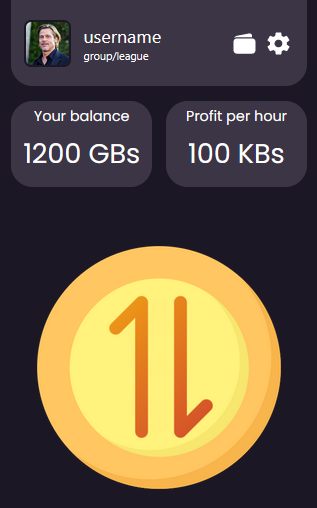
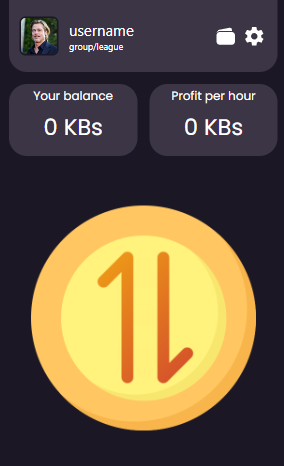
Pagination added, balance change added

diff --git a/src/components/buttons/CoinButton.tsx b/src/components/buttons/CoinButton.tsx
@@ -1,12 +1,14 @@
 // import {motion} from "framer-motion";
 import {motion} from "framer-motion";
 import {FC, useEffect, useState} from "react";
+import userBalance from "../stores/userBalance.ts";
+import {observer} from "mobx-react-lite";
 
 interface CoinButtonProps {
     profitphour: number
 }
 
-const CoinButton: FC<CoinButtonProps> = () => {
+const CoinButton: FC<CoinButtonProps> = observer(() => {
 
     const Imgs = {
         coinImg: new URL("/imgs/coin.png", import.meta.url).href,
@@ -19,7 +21,7 @@ const CoinButton: FC<CoinButtonProps> = () => {
     let startTouchX: number = 0;
     let startTouchY: number = 0;
 
-    const handleClick = () => {
+    const handleClickAnimation = () => {
         const clickbutton = document.getElementById("coinbutton");
 
         if (clickbutton) {
@@ -33,6 +35,20 @@ const CoinButton: FC<CoinButtonProps> = () => {
             })
         }
     }
+
+    const handleBalanceIncrease = () => {
+        userBalance.tapIncrement();
+    }
+
+    // const handlePPhIncrease = () => {
+    //     userBalance.tapIncrementPPH();
+    // }
+
+    const handleClick = () => {
+        handleClickAnimation();
+        handleBalanceIncrease();
+    }
+
     useEffect(() => {
         if (isVisible) {
             const timer = setTimeout(() => {
@@ -61,30 +77,30 @@ const CoinButton: FC<CoinButtonProps> = () => {
                         <motion.div
                             initial={{
                                 opacity: 0,
-                                x: `${positionX*0.05}px`,
-                                y: `${positionY*0.05}px`
+                                x: `${positionX * 0.05}px`,
+                                y: `${positionY * 0.05}px`
                             }}
                             animate={{
                                 opacity: 3,
-                                x: `${positionX*0.05}px`,
-                                y: `${positionY*0.05-200}px`
+                                x: `${positionX * 0.05}px`,
+                                y: `${positionY * 0.05 - 200}px`
                             }}
                             exit={{
                                 opacity: 0,
-                                x: `${positionX*0.05}px`,
-                                y: `${positionY*0.05}px`
+                                x: `${positionX * 0.05}px`,
+                                y: `${positionY * 0.05}px`
                             }}
                             transition={{duration: 0.1}}
                             className="profit-per-tap bg-transparent text-white text-4xl font-bold font-poppinsFont select-none"
-                            style={{top: `${positionY * 0.5}px`, left: `${positionX*0.5}px`, position: 'absolute'}}
+                            style={{top: `${positionY * 0.5}px`, left: `${positionX * 0.5}px`, position: 'absolute'}}
                         >
-                            +7
+                            +1
                         </motion.div>
                     )}
                 </div>
             </div>
         </div>
     );
-};
+});
 
 export default CoinButton;

diff --git a/src/components/pages/WelcomingPage2.tsx b/src/components/pages/WelcomingPage2.tsx
@@ -1,5 +1,6 @@
 import { motion } from "framer-motion";
 import {Link, Outlet} from "react-router-dom";
+import PaginationGuideButton from "../buttons/PaginationGuideButton.tsx";
 
 const WelcomingPage2 = () => {
     const app2 = new URL("/imgs/ourApp2.png", import.meta.url).href;
@@ -8,11 +9,12 @@ const WelcomingPage2 = () => {
             className={"WelcomingPage2 bg-black min-h-screen select-none"}
             initial={{opacity: 0}}
             animate={{opacity: 3}}
-            exit={{opacity:0}}
-            transition={{duration:0.2}}>
-            <div className={"font-poppinsFont font-semibold text-center pt-16 select-none px-10"}>
+            exit={{opacity: 0}}
+            transition={{duration: 0.2}}>
+            <div className={"font-poppinsFont font-semibold text-center pt-12 select-none px-10"}>
                 <h1 className={"text-white text-xl mob3:text-2xl"}>You can perform tasks and earn easy coins</h1>
-                <h1 className={"text-white text-lg mob3:text-xl mt-4"}>Easier tasks bring you less coins, harder - more coins</h1>
+                <h1 className={"text-white text-lg mob3:text-xl mt-4"}>Easier tasks bring you less coins, harder - more
+                    coins</h1>
             </div>
             <div className={"flex justify-center mt-8"}>
                 <img src={app2} alt={"Screen2"}
@@ -20,10 +22,15 @@ const WelcomingPage2 = () => {
             </div>
             <div className={"flex justify-end"}>
                 <Link to={"/guide3"}
-                    className={"w-24 h-12 mob3:w-32 mob3:h-20 mob3:text-2xl mr-5 mt-8 mob3:mt-14 mob3:pt-6 mob3:px-6 px-5 py-2.5 rounded-lg text-white font-semibold place-items-center text-lg font-poppinsFont bg-purple-700 focus:bg-purple-900 focus:ring-4 focus:ring-purple-300 mb-2 dark:bg-purple-600 dark:hover:bg-purple-700 dark:focus:ring-purple-900"}>
+                      className={"w-24 h-12 mob3:w-32 mob3:h-20 mob3:text-2xl mr-5 mt-8 mob3:mt-14 mob3:pt-6 mob3:px-6 px-5 py-2.5 rounded-lg text-white font-semibold place-items-center text-lg font-poppinsFont bg-purple-700 focus:bg-purple-900 focus:ring-4 focus:ring-purple-300 mb-2 dark:bg-purple-600 dark:hover:bg-purple-700 dark:focus:ring-purple-900"}>
                     Got it!
                 </Link>
                 <Outlet/>
+            </div>
+            <div className={"flex gap-2 justify-center mt-5"}>
+                <PaginationGuideButton bgCurrent={false}/>
+                <PaginationGuideButton bgCurrent={true}/>
+                <PaginationGuideButton bgCurrent={false}/>
             </div>
         </motion.div>
     );

diff --git a/src/components/pages/WelcomingPage3.tsx b/src/components/pages/WelcomingPage3.tsx
@@ -1,5 +1,6 @@
 import { motion } from "framer-motion";
 import {Link, Outlet} from "react-router-dom";
+import PaginationGuideButton from "../buttons/PaginationGuideButton.tsx";
 
 const WelcomingPage3 = () => {
     const app3 = new URL("/imgs/ourApp3.png", import.meta.url).href;
@@ -8,9 +9,9 @@ const WelcomingPage3 = () => {
             className={"WelcomingPage2 bg-black min-h-screen select-none"}
             initial={{opacity: 0}}
             animate={{opacity: 3}}
-            exit={{opacity:0}}
-            transition={{duration:0.2}}>
-            <div className={"font-poppinsFont font-semibold text-center pt-16 select-none px-7"}>
+            exit={{opacity: 0}}
+            transition={{duration: 0.2}}>
+            <div className={"font-poppinsFont font-semibold text-center pt-12 select-none px-7"}>
                 <h1 className={"text-white text-xl mob3:text-3xl"}>Also, you can earn from inviting your friends!</h1>
                 <h1 className={"text-gray-400 text-sm mob3:text-lg mt-5"}>Each friend can bring you up to 2000TR</h1>
             </div>
@@ -20,10 +21,15 @@ const WelcomingPage3 = () => {
             </div>
             <div className={"flex justify-end"}>
                 <Link to={"/main"}
-                    className={"w-30 h-12 text-base mob3:w-32 mob3:h-20 mob2:text-xl mr-5 mt-8 mob3:mt-15 text-center rounded-lg text-white font-semibold place-items-center font-poppinsFont bg-purple-700 focus:bg-purple-900 focus:ring-4 focus:ring-purple-300 px-5 py-2.5 mb-2 dark:bg-purple-600 dark:hover:bg-purple-700 dark:focus:ring-purple-900"}>
+                      className={"w-30 h-12 text-base mob3:w-32 mob3:h-20 mob2:text-xl mr-5 mt-8 mob3:mt-15 text-center rounded-lg text-white font-semibold place-items-center font-poppinsFont bg-purple-700 focus:bg-purple-900 focus:ring-4 focus:ring-purple-300 px-5 py-2.5 mb-2 dark:bg-purple-600 dark:hover:bg-purple-700 dark:focus:ring-purple-900"}>
                     Let's dive!
                 </Link>
                 <Outlet/>
+            </div>
+            <div className={"flex gap-2 justify-center mt-5"}>
+                <PaginationGuideButton bgCurrent={false}/>
+                <PaginationGuideButton bgCurrent={false}/>
+                <PaginationGuideButton bgCurrent={true}/>
             </div>
         </motion.div>
     );

diff --git a/src/components/pages/WelcomingPage1.tsx b/src/components/pages/WelcomingPage1.tsx
@@ -1,20 +1,24 @@
-import { motion } from "framer-motion";
+import {motion} from "framer-motion";
 import {Link, Outlet} from "react-router-dom";
+import PaginationGuideButton from "../buttons/PaginationGuideButton.tsx";
 
 const WelcomingPage1 = () => {
     const app1 = new URL("/imgs/ourApp.png", import.meta.url).href;
+
     return (
         <motion.div
             className={"WelcomingPage1 bg-black min-h-screen"}
             initial={{opacity: 0}}
             animate={{opacity: 3}}
-            exit={{opacity:0}}
-            transition={{duration:0.2}}>
-            <div className={"font-poppinsFont font-semibold text-center pt-16 select-none px-10"}>
+            exit={{opacity: 0}}
+            transition={{duration: 0.2}}>
+            <div className={"font-poppinsFont font-semibold text-center pt-12 select-none px-10"}>
                 <h1 className={"text-white text-2xl mob3:text-3xl sm:text-4xl"}>Welcome to our app!</h1>
                 <h1 className={"text-white text-xl mob3:text-2xl sm:text-3xl mt-4"}>Everything is easy:</h1>
-                <h1 className={"text-white text-lg mob3:text-2xl sm:text-3xl font-bold"}>Tap the button - earn a coin</h1>
-                <h1 className={"text-gray-400 text-xs mob3:text-base sm:text-xl mt-5"}>Additional things like boosts will be added
+                <h1 className={"text-white text-lg mob3:text-2xl sm:text-3xl font-bold"}>Tap the button - earn a
+                    coin</h1>
+                <h1 className={"text-gray-400 text-xs mob3:text-base sm:text-xl mt-5"}>Additional things like boosts
+                    will be added
                     soon...</h1>
             </div>
             <div className={"flex justify-center mt-8"}>
@@ -27,6 +31,11 @@ const WelcomingPage1 = () => {
                     Got it!
                 </Link>
                 <Outlet/>
+            </div>
+            <div className={"flex gap-2 justify-center mt-5"}>
+                <PaginationGuideButton bgCurrent={true}/>
+                <PaginationGuideButton bgCurrent={false}/>
+                <PaginationGuideButton bgCurrent={false}/>
             </div>
         </motion.div>
     );

diff --git a/src/components/cards/StatBoard.tsx b/src/components/cards/StatBoard.tsx
@@ -1,23 +1,25 @@
 import {FC} from "react";
 import {IStats} from "../types/types";
 import BalanceCard from "./BalanceCard.tsx";
+import userBalance from "../stores/userBalance.ts";
+import {observer} from "mobx-react-lite";
 
 interface MainPageStatCardProps {
     stats: IStats;
 }
 
-const StatBoard: FC<MainPageStatCardProps> = ({stats}) => {
+const StatBoard: FC<MainPageStatCardProps> = observer(() => {
     return (
         <div className="flex columns-2 w-full px-4 justify-evenly mt-4">
-            <BalanceCard title="Your balance" amount={stats.balance} currency="GBs"/>
+            <BalanceCard title="Your balance" amount={userBalance.balance} currency="KBs"/>
             <div className="ml-4"/>
             <BalanceCard
                 title="Profit per hour"
-                amount={stats.profitphour}
+                amount={userBalance.profitperhour}
                 currency="KBs"
             />
         </div>
     );
-};
+});
 
 export default StatBoard;

diff --git a/src/components/pages/MainPage.tsx b/src/components/pages/MainPage.tsx
@@ -10,14 +10,14 @@ const MainPage = () => {
     return (
         <PageBodyWrapper>
             <motion.div
-                className={"MainPage bg-main min-h-screen select-none pb-24"}
+                className={"MainPage bg-main min-h-dvh select-none overflow-hidden pb-10"}
                 initial={{opacity: 0}}
                 animate={{opacity: 3}}
                 exit={{opacity: 0}}
                 transition={{duration: 0.2}}
             >
 
-                <div className={"pb-24"}>
+                <div className={"min-h-screen"}>
                     <StatBoard stats={stats}/>
                     <CoinButton profitphour={stats.profitphour}/>
                 </div>

diff --git a/src/components/stores/userBalance.ts b/src/components/stores/userBalance.ts
@@ -1,0 +1,26 @@
+import {makeAutoObservable} from "mobx";
+
+class userBalance {
+    balance: number = 0;
+    profitperhour: number = 0;
+    prevBalance: number = 0;
+
+    constructor() {
+        makeAutoObservable(this);
+    }
+
+    tapIncrement() {
+        this.balance = this.balance + 1;
+    }
+
+    // tapIncrementPPH() {
+    //     const updatePPH = () => {
+    //         this.prevBalance = this.balance;
+    //         this.profitperhour = this.balance - this.prevBalance;
+    //     }
+    //     const interval = setInterval(updatePPH, 10000);
+    //     return () => clearInterval(interval);
+    // }
+}
+
+export default new userBalance();

diff --git a/src/components/buttons/PaginationGuideButton.tsx b/src/components/buttons/PaginationGuideButton.tsx
@@ -1,0 +1,14 @@
+import {FC} from "react";
+
+interface PaginationGuideButton {
+    bgCurrent: boolean;
+}
+const PaginationGuideButton:FC<PaginationGuideButton> = ({bgCurrent}) => {
+    return (
+        <div className="w-3 h-3 rounded-full"
+             style={bgCurrent ? {backgroundColor:"white"} : {backgroundColor:"gray"}}>
+        </div>
+    );
+};
+
+export default PaginationGuideButton;

diff --git a/src/components/pages/FriendsPage.tsx b/src/components/pages/FriendsPage.tsx
@@ -9,7 +9,7 @@ const FriendsPage = () => {
     return (
         <PageBodyWrapper>
             <motion.div
-                className={"TopPage bg-main min-h-screen select-none pb-24"}
+                className={"TopPage bg-main min-h-screen select-none pb-10"}
                 initial={{opacity: 0}}
                 animate={{opacity: 2}}
                 exit={{opacity:0}}

diff --git a/src/components/pages/ShopPage.tsx b/src/components/pages/ShopPage.tsx
@@ -4,7 +4,7 @@ import PageBodyWrapper from "./PageBodyWrapper.tsx";
 const ShopPage = () => {
     return (
         <motion.div
-            className={"TopPage bg-main min-h-screen select-none pb-24"}
+            className={"TopPage bg-main min-h-screen select-none"}
             initial={{opacity: 0}}
             animate={{opacity: 3}}
             exit={{opacity: 0}}
